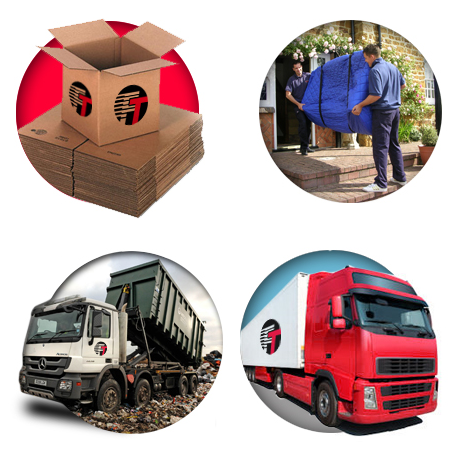
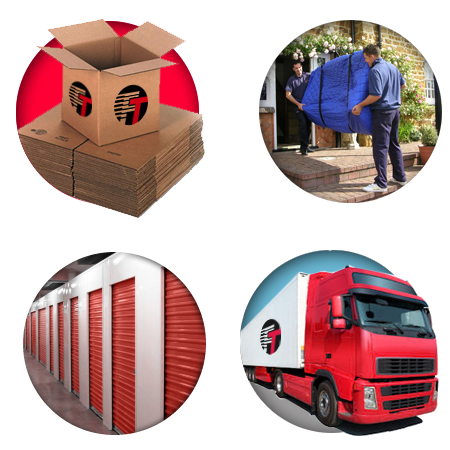
Above The Fold CMS CSS + New IMG

Changed region(s): [[0.0311, 0.56, 0.4978, 0.9644]]

diff --git a/views/admin/manageSections.html b/views/admin/manageSections.html
@@ -25,6 +25,13 @@
 	<a href="/admin/manage/sections/create" class="ft-btn ft-icon ft-main-function ft-create-section">+</a>
 
 	<div id="body" class="ft-sections">
+		<style>
+			{{ range $key, $value := . }}
+				{{range $value}}
+					{{.Css}}
+				{{end}}
+			{{end}}
+		</style>
 		{{ range $key, $value := . }}
 			{{if eq $key "Head"}}
 				{{range $value}}

diff --git a/views/root.html b/views/root.html
@@ -6,6 +6,11 @@
 		{{end}}
 	{{end}}
 	<body id="body">
+		<style>
+			{{range .}}
+				{{.Css}}
+			{{end}}
+		</style>
 		{{range .}}
 			{{if ne .Name "Head"}}
 				{{.Html}}
